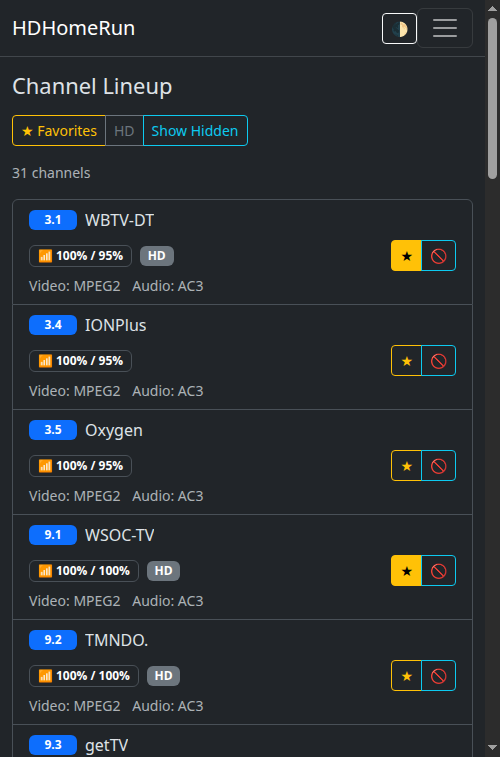
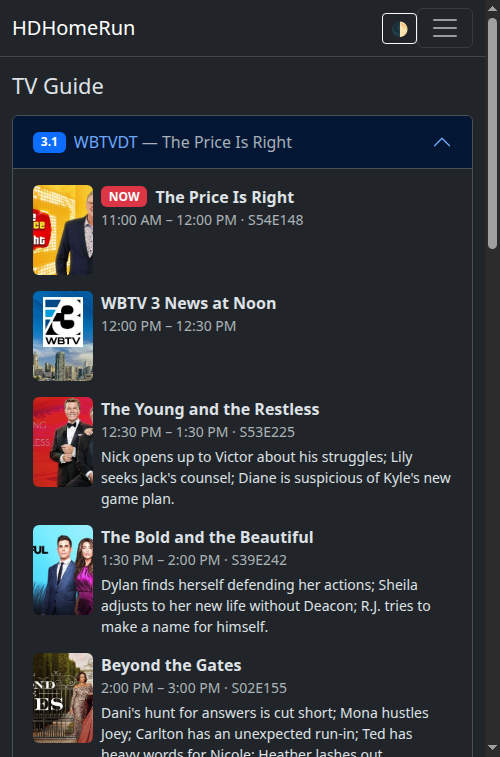
Add TV Guide page using Silicondust's cloud Guide API
Fetches program guide data (titles, times, episodes, synopses,
artwork) from api.hdhomerun.com, authenticated with the device's own
DeviceAuth token (read fresh from discover.json each request, since it
rotates every 16-24h). No DVR subscription required as of the current
Guide API docs. Rendered as a per-channel accordion with a "NOW"
indicator for the currently airing show.

Changed region(s): [[0.0, 0.0911, 1.0, 1.0], [0.78, 0.3038, 0.9, 0.3646], [0.78, 0.4557, 0.9, 0.4861]]

diff --git a/src/guide.js b/src/guide.js
@@ -1,0 +1,26 @@
+const hdhr = require('./hdhomerun');
+
+const GUIDE_BASE = 'https://api.hdhomerun.com';
+const TIMEOUT_MS = 8000;
+
+async function getGuide({ duration = 6 } = {}) {
+  const device = await hdhr.getDeviceInfo();
+  if (!device || !device.DeviceAuth) {
+    throw new Error('Device did not return a DeviceAuth token');
+  }
+
+  const controller = new AbortController();
+  const timeout = setTimeout(() => controller.abort(), TIMEOUT_MS);
+  try {
+    const url = `${GUIDE_BASE}/api/guide?DeviceAuth=${encodeURIComponent(device.DeviceAuth)}&Duration=${duration}`;
+    const res = await fetch(url, { signal: controller.signal });
+    if (!res.ok) {
+      throw new Error(`Guide request failed: ${res.status} ${res.statusText}`);
+    }
+    return res.json();
+  } finally {
+    clearTimeout(timeout);
+  }
+}
+
+module.exports = { getGuide };

diff --git a/server.js b/server.js
@@ -6,6 +6,7 @@ const indexRoutes = require('./src/routes/index');
 const channelsRoutes = require('./src/routes/channels');
 const scanRoutes = require('./src/routes/scan');
 const statusRoutes = require('./src/routes/status');
+const guideRoutes = require('./src/routes/guide');
 
 const app = express();
 const PORT = process.env.PORT || 8080;
@@ -21,6 +22,7 @@ app.use(indexRoutes);
 app.use(channelsRoutes);
 app.use(scanRoutes);
 app.use(statusRoutes);
+app.use(guideRoutes);
 
 app.listen(PORT, () => {
   console.log(`hdhomerun-web listening on port ${PORT}`);

diff --git a/src/routes/guide.js b/src/routes/guide.js
@@ -1,0 +1,15 @@
+const express = require('express');
+const guide = require('../guide');
+
+const router = express.Router();
+
+router.get('/guide', async (req, res) => {
+  try {
+    const channels = await guide.getGuide({ duration: 6 });
+    res.render('guide', { channels: channels || [], error: null, now: Math.floor(Date.now() / 1000) });
+  } catch (err) {
+    res.render('guide', { channels: [], error: err.message, now: Math.floor(Date.now() / 1000) });
+  }
+});
+
+module.exports = router;

diff --git a/README.md b/README.md
@@ -5,6 +5,7 @@ A mobile-responsive web UI for managing your [HDHomeRun](https://www.silicondust
 ## Features
 
 - **System Menu** (`/`) — device info at a glance: friendly name, model, firmware version, device ID, tuner count. Includes a link to the device's own system log.
+- **TV Guide** (`/guide`) — live program guide per channel (titles, times, episode info, synopses, artwork) via Silicondust's cloud Guide API, authenticated using the device's own `DeviceAuth` token. No subscription required.
 - **Channel Lineup** (`/channels`) — full channel list including hidden and unsubscribed channels, with per-channel signal strength/quality and codec info. Toggle filters for Favorites, HD, and Show Hidden, plus one-tap buttons to favorite or hide any channel (synced back to the device itself).
 - **Detect Channels** (`/scan`) — start or abort a channel scan, with a source selector (e.g. Antenna/Cable) and live progress.
 - **System Status** (`/status`) — per-tuner status: currently tuned channel, signal strength/quality meters, and network rate (Mbit/s), auto-refreshing.
@@ -12,9 +13,9 @@ A mobile-responsive web UI for managing your [HDHomeRun](https://www.silicondust
 
 ## Screenshots
 
-| Channel Lineup (dark) | System Status (light) |
+| TV Guide (dark) | System Status (light) |
 |---|---|
-| ![Channel Lineup, dark mode](docs/screenshot-dark.png) | ![System Status, light mode](docs/screenshot-light.png) |
+| ![TV Guide, dark mode](docs/screenshot-dark.png) | ![System Status, light mode](docs/screenshot-light.png) |
 
 ## Stack
 
@@ -22,6 +23,7 @@ A mobile-responsive web UI for managing your [HDHomeRun](https://www.silicondust
 - [htmx](https://htmx.org/) for the small bits of live-updating UI (scan progress, tuner status)
 - [Bootstrap 5](https://getbootstrap.com/) for styling, loaded via CDN, with a light/dark theme toggle
 - Talks directly to your HDHomeRun's HTTP API (`discover.json`, `lineup.json`, `lineup.post`, `lineup_status.json`, `status.json`)
+- Talks to Silicondust's cloud Guide API (`api.hdhomerun.com`) for program guide data
 
 ## Running
 
